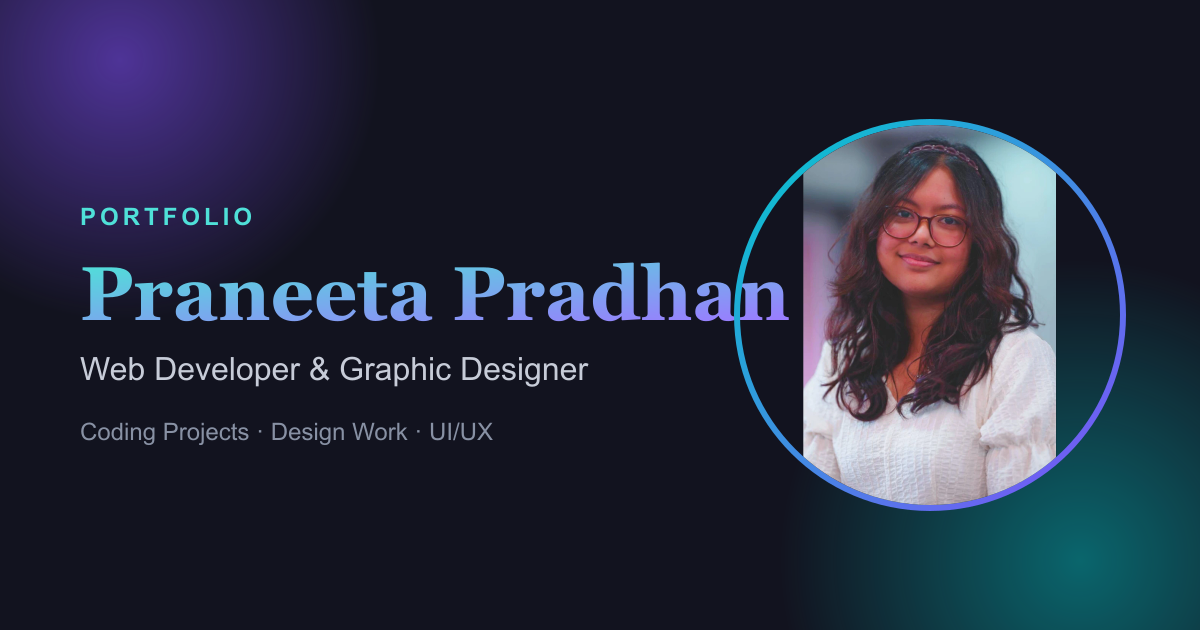
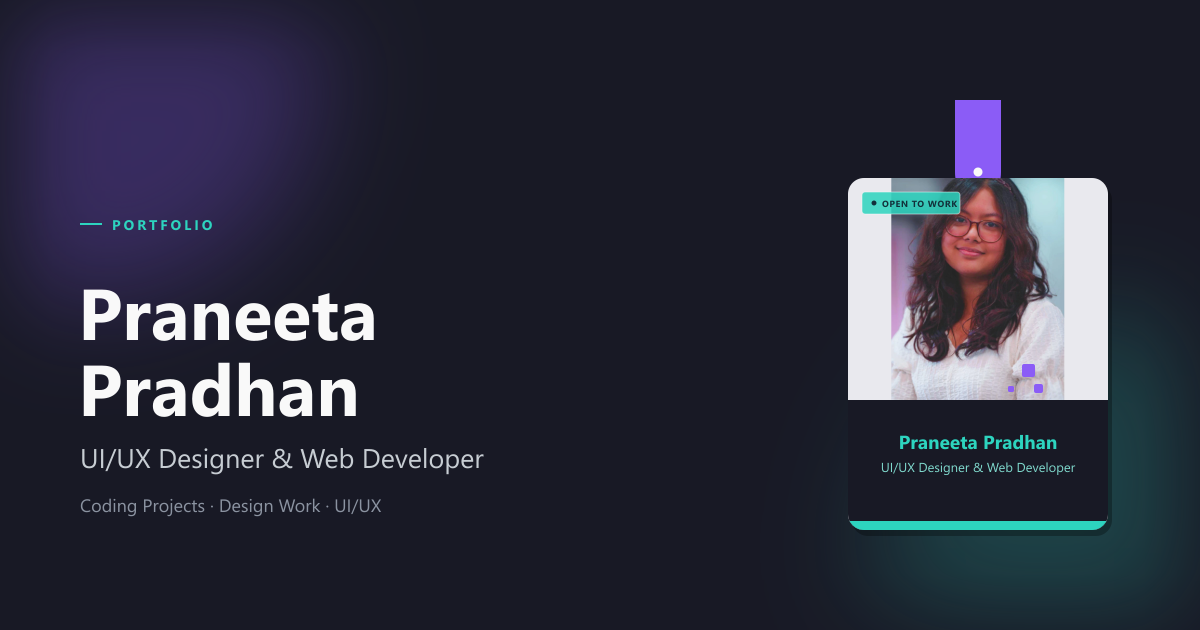
Updated the shareable link image

diff --git a/src/App.tsx b/src/App.tsx
@@ -1,4 +1,5 @@
 import Navigation from "./components/Navigation";
+import { Analytics } from "@vercel/analytics/react";
 import Hero from "./components/Hero";
 import Services from "./components/Services";
 import DesignProcess from "./components/DesignProcess";
@@ -12,6 +13,7 @@ import Preloader from "./components/Preloader";
 function App() {
    return (
       <div className="min-h-screen bg-background">
+         <Analytics />
          <Preloader />
          <Navigation />
          <CursorGlow />
